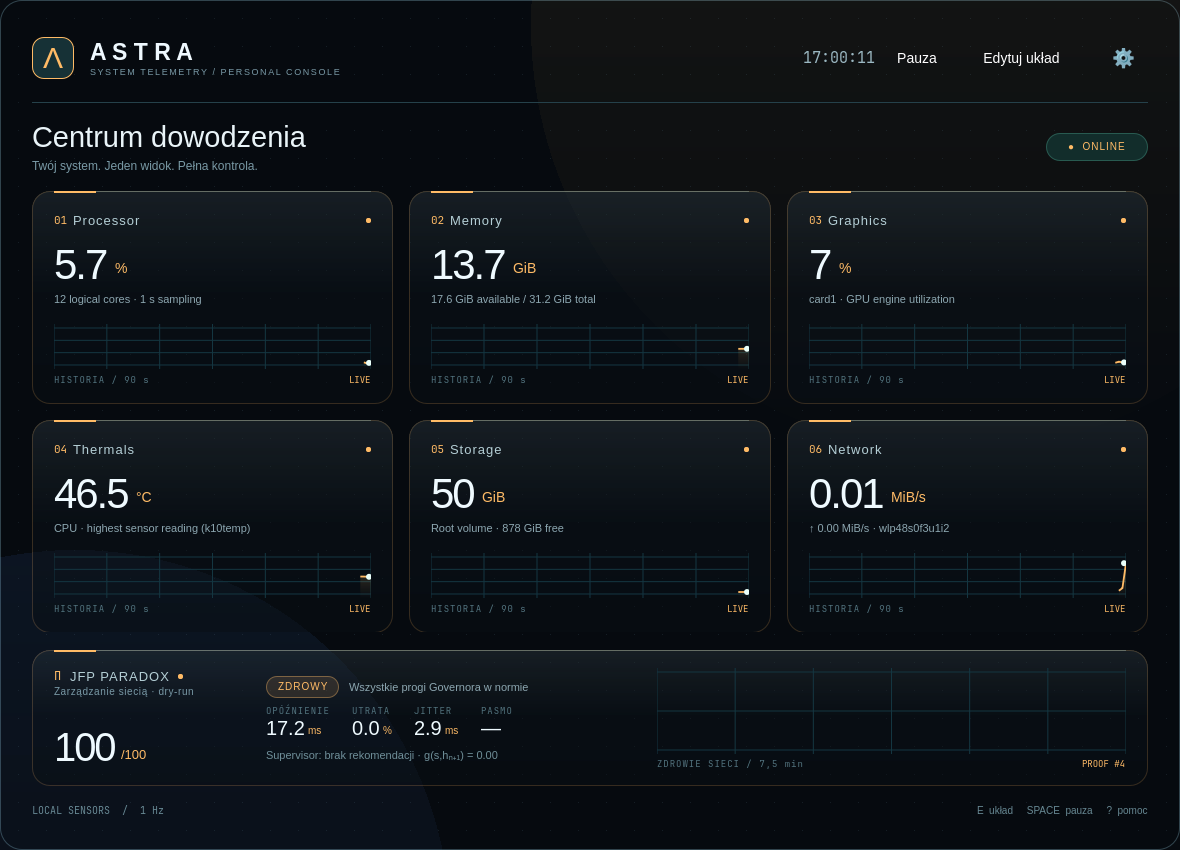
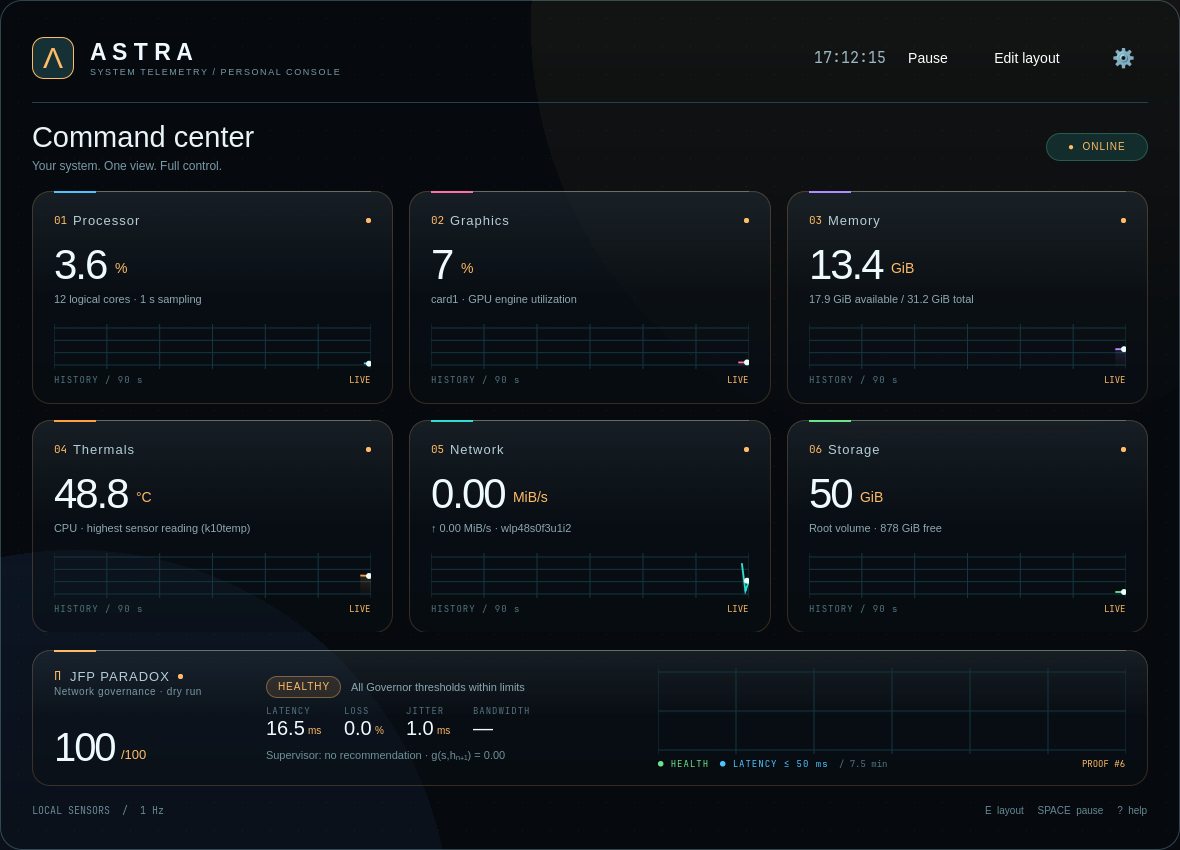
EN/PL language switch, per-metric graph colours, Paradox latency line

diff --git a/src/ParadoxPanel.qml b/src/ParadoxPanel.qml
@@ -8,6 +8,9 @@ Rectangle {
  property color accent: "#31f7a5"
  property real glass: .83
  readonly property bool ready: s.ready===true
+ readonly property color healthColor: "#6be38b"
+ readonly property color latencyColor: "#4fc3ff"
+ readonly property real latencyCeiling: {var l=s.latencyHistory||[];var m=0;for(var i=0;i<l.length;i++)m=Math.max(m,l[i]);return Math.max(50,Math.ceil(m*1.2/10)*10)}
  readonly property color stateColor: !ready?"#6b7683":s.state==="critical"?"#ff6b6b":s.state==="degraded"?"#ffbb66":accent
  radius: 18
  color: Qt.rgba(.035,.065,.085,glass)
@@ -27,7 +30,7 @@ Rectangle {
     Text {text:"JFP PARADOX";color:"#b4ced5";font.pixelSize:13;font.letterSpacing:1}
     Rectangle {width:5;height:5;radius:3;color:panel.stateColor}
    }
-   Text {text:qsTr("Zarządzanie siecią · dry-run");color:"#7898a5";font.pixelSize:10;font.letterSpacing:.6}
+   Text {text:qsTr("Network governance · dry run");color:"#7898a5";font.pixelSize:10;font.letterSpacing:.6}
    Item {Layout.fillHeight:true}
    RowLayout {spacing:6
     Text {text:panel.ready?panel.fmt(panel.s.score,0):"—";font.pixelSize:40;font.weight:Font.Light;font.letterSpacing:-2;color:"#effaff"}
@@ -39,17 +42,17 @@ Rectangle {
    RowLayout {spacing:10
     Rectangle {implicitWidth:stateText.implicitWidth+22;implicitHeight:22;radius:11;color:Qt.rgba(panel.stateColor.r,panel.stateColor.g,panel.stateColor.b,.12);border.color:Qt.rgba(panel.stateColor.r,panel.stateColor.g,panel.stateColor.b,.45)
      Text {id:stateText;anchors.centerIn:parent;color:panel.stateColor;font.pixelSize:10;font.letterSpacing:1
-      text:!panel.ready?qsTr("POMIAR…"):panel.s.state==="critical"?qsTr("KRYTYCZNY"):panel.s.state==="degraded"?qsTr("POGORSZONY"):qsTr("ZDROWY")}
+      text:!panel.ready?qsTr("MEASURING…"):panel.s.state==="critical"?qsTr("CRITICAL"):panel.s.state==="degraded"?qsTr("DEGRADED"):qsTr("HEALTHY")}
     }
     Text {Layout.fillWidth:true;elide:Text.ElideRight;color:"#8ca6b0";font.pixelSize:11;textFormat:Text.PlainText
-     text:!panel.ready?qsTr("Sonda → %1").arg(panel.s.target||""):(panel.s.breached&&panel.s.breached.length?qsTr("Progi: %1").arg(panel.s.breached.join(", ")):qsTr("Wszystkie progi Governora w normie"))}
+     text:!panel.ready?qsTr("Probe → %1").arg(panel.s.target||""):(panel.s.breached&&panel.s.breached.length?qsTr("Thresholds: %1").arg(panel.s.breached.join(", ")):qsTr("All Governor thresholds within limits"))}
    }
    GridLayout {columns:4;columnSpacing:22;rowSpacing:0;Layout.fillWidth:true
     Repeater {model:[
-      {k:qsTr("OPÓŹNIENIE"),v:panel.fmt(panel.s.latency,1),u:"ms"},
-      {k:qsTr("UTRATA"),v:panel.fmt(panel.s.loss,1),u:"%"},
+      {k:qsTr("LATENCY"),v:panel.fmt(panel.s.latency,1),u:"ms"},
+      {k:qsTr("LOSS"),v:panel.fmt(panel.s.loss,1),u:"%"},
       {k:qsTr("JITTER"),v:panel.fmt(panel.s.jitter,1),u:"ms"},
-      {k:qsTr("PASMO"),v:panel.s.linkKnown?panel.fmt(panel.s.bandwidth,0):"—",u:panel.s.linkKnown?"%":""}]
+      {k:qsTr("BANDWIDTH"),v:panel.s.linkKnown?panel.fmt(panel.s.bandwidth,0):"—",u:panel.s.linkKnown?"%":""}]
      ColumnLayout {required property var modelData;spacing:0
       Text {text:modelData.k;font.family:"monospace";font.pixelSize:9;font.letterSpacing:1;color:"#52737e"}
       RowLayout {spacing:3
@@ -61,31 +64,41 @@ Rectangle {
    }
    Text {Layout.fillWidth:true;elide:Text.ElideRight;font.pixelSize:11;textFormat:Text.PlainText
     color:panel.s.action?(panel.s.armed?"#ff9b8a":"#ffcf8a"):"#6f8f99"
-    text:!panel.ready?"":panel.s.action?qsTr("Supervisor %1 → %2 · %3 · nie wykonano (dry-run)").arg(panel.s.level).arg(panel.s.action).arg(panel.s.armed?qsTr("streak %1/3 — uzbrojone").arg(panel.s.streak):qsTr("streak %1/3").arg(panel.s.streak)):qsTr("Supervisor: brak rekomendacji · g(s,hₙ₊₁) = %1").arg(panel.fmt(panel.s.gradient,2))}
+    text:!panel.ready?"":panel.s.action?qsTr("Supervisor %1 → %2 · %3 · not executed (dry run)").arg(panel.s.level).arg(panel.s.action).arg(panel.s.armed?qsTr("streak %1/3 — armed").arg(panel.s.streak):qsTr("streak %1/3").arg(panel.s.streak)):qsTr("Supervisor: no recommendation · g(s,hₙ₊₁) = %1").arg(panel.fmt(panel.s.gradient,2))}
   }
   // health history
   ColumnLayout {spacing:4;Layout.preferredWidth:Math.min(340,panel.width*.3);Layout.fillHeight:true;visible:panel.width>760
    Canvas {
     id:graph;Layout.fillWidth:true;Layout.fillHeight:true
     property var samples:panel.s.history||[]
+    property var lat:panel.s.latencyHistory||[]
     onSamplesChanged:requestPaint();onWidthChanged:requestPaint();onHeightChanged:requestPaint()
     onPaint:{
      var c=getContext("2d");c.reset();c.strokeStyle="#143641";c.lineWidth=1;
      for(var j=0;j<3;j++){var y=4+j*(height-8)/2;c.beginPath();c.moveTo(0,y);c.lineTo(width,y);c.stroke();}
      for(var k=0;k<7;k++){var x=k*width/6;c.beginPath();c.moveTo(x,0);c.lineTo(x,height);c.stroke();}
-     if(samples.length<2)return;
-     var step=width/89,first=width-(samples.length-1)*step;
-     function yy(v){return height-4-Math.min(1,Math.max(0,v/100))*(height-8);}
-     c.beginPath();c.moveTo(first,height);for(var i=0;i<samples.length;i++)c.lineTo(first+i*step,yy(samples[i]));c.lineTo(width,height);c.closePath();
-     var g=c.createLinearGradient(0,0,0,height);g.addColorStop(0,Qt.rgba(panel.accent.r,panel.accent.g,panel.accent.b,.28));g.addColorStop(1,"#0031f7a5");c.fillStyle=g;c.fill();
-     c.beginPath();for(var n=0;n<samples.length;n++){var px=first+n*step,py=yy(samples[n]);if(n===0)c.moveTo(px,py);else c.lineTo(px,py);}c.strokeStyle=panel.accent;c.lineWidth=1.8;c.stroke();
+     var w=width,h=height;
+     function draw(data,ceiling,col,fill){
+      if(data.length<2)return;
+      var step=w/89,first=w-(data.length-1)*step;
+      function yy(v){return h-4-Math.min(1,Math.max(0,v/ceiling))*(h-8);}
+      if(fill){c.beginPath();c.moveTo(first,h);for(var i=0;i<data.length;i++)c.lineTo(first+i*step,yy(data[i]));c.lineTo(w,h);c.closePath();
+       var g=c.createLinearGradient(0,0,0,h);g.addColorStop(0,Qt.rgba(col.r,col.g,col.b,.25));g.addColorStop(1,Qt.rgba(col.r,col.g,col.b,0));c.fillStyle=g;c.fill();}
+      c.beginPath();for(var n=0;n<data.length;n++){var px=first+n*step,py=yy(data[n]);if(n===0)c.moveTo(px,py);else c.lineTo(px,py);}
+      c.strokeStyle=col;c.lineWidth=1.8;c.stroke();
+      c.beginPath();c.arc(w-2,yy(data[data.length-1]),3,0,Math.PI*2);c.fillStyle=col;c.fill();
+     }
+     draw(lat,panel.latencyCeiling,panel.latencyColor,false);
+     draw(samples,100,panel.healthColor,true);
     }
    }
-   RowLayout {Layout.fillWidth:true
-    Text {text:qsTr("ZDROWIE SIECI / 7,5 min");font.family:"monospace";font.pixelSize:9;font.letterSpacing:1;color:"#52737e"}
+   RowLayout {Layout.fillWidth:true;spacing:10
+    Text {text:"● "+qsTr("HEALTH");font.family:"monospace";font.pixelSize:9;font.letterSpacing:1;color:panel.healthColor}
+    Text {text:"● "+qsTr("LATENCY")+" ≤ "+Math.round(panel.latencyCeiling)+" ms";font.family:"monospace";font.pixelSize:9;font.letterSpacing:1;color:panel.latencyColor}
+    Text {text:"/ 7.5 min";font.family:"monospace";font.pixelSize:9;color:"#52737e"}
     Item {Layout.fillWidth:true}
     Text {text:qsTr("PROOF #%1").arg(panel.s.entries||0);font.family:"monospace";font.pixelSize:9;color:panel.accent
-     ToolTip.text:qsTr("Łańcuch SHA-256: %1").arg(panel.s.proof||"");ToolTip.visible:proofHover.hovered;HoverHandler{id:proofHover}}
+     ToolTip.text:qsTr("SHA-256 chain: %1").arg(panel.s.proof||"");ToolTip.visible:proofHover.hovered;HoverHandler{id:proofHover}}
    }
   }
  }

diff --git a/src/Main.qml b/src/Main.qml
@@ -35,19 +35,19 @@ ApplicationWindow {
     }
     Item {Layout.fillWidth:true}
     Text {text:win.clockText;color:"#9bb8c2";font.family:"monospace";font.pixelSize:15;visible:win.width>850}
-    ToolButton {text:backend.paused?qsTr("Wznów"):qsTr("Pauza");onClicked:backend.paused=!backend.paused}
-    Button {text:win.editing?qsTr("Gotowe"):qsTr("Edytuj układ");highlighted:win.editing;onClicked:win.editing=!win.editing}
-    ToolButton {text:"⚙";font.pixelSize:22;onClicked:settingsDrawer.open();ToolTip.text:qsTr("Wygląd i kafelki");ToolTip.visible:hovered}
+    ToolButton {text:backend.paused?qsTr("Resume"):qsTr("Pause");onClicked:backend.paused=!backend.paused}
+    Button {text:win.editing?qsTr("Done"):qsTr("Edit layout");highlighted:win.editing;onClicked:win.editing=!win.editing}
+    ToolButton {text:"⚙";font.pixelSize:22;onClicked:settingsDrawer.open();ToolTip.text:qsTr("Appearance and tiles");ToolTip.visible:hovered}
    }
    Rectangle {Layout.fillWidth:true;height:1;color:"#25414a"}
    RowLayout {Layout.fillWidth:true
     ColumnLayout {spacing:5
-     Text {text:qsTr("Centrum dowodzenia");color:"#e9f4f8";font.pixelSize:29;font.weight:Font.Light}
-     Text {text:win.editing?qsTr("Strzałki zmieniają kolejność · × usuwa kafelek · ustawienia dodają kafelki"):qsTr("Twój system. Jeden widok. Pełna kontrola.");color:"#7999a5";font.pixelSize:12;wrapMode:Text.WordWrap;Layout.maximumWidth:win.width-150}
+     Text {text:qsTr("Command center");color:"#e9f4f8";font.pixelSize:29;font.weight:Font.Light}
+     Text {text:win.editing?qsTr("Arrows reorder · × removes a tile · settings add tiles"):qsTr("Your system. One view. Full control.");color:"#7999a5";font.pixelSize:12;wrapMode:Text.WordWrap;Layout.maximumWidth:win.width-150}
     }
     Item {Layout.fillWidth:true}
     Rectangle {implicitWidth:102;implicitHeight:28;radius:14;color:"#122d2b";border.color:"#285a50";visible:win.width>950
-     Text {anchors.centerIn:parent;text:backend.paused?qsTr("●  PAUZA"):qsTr("●  ONLINE");color:win.accent;font.pixelSize:10;font.letterSpacing:1}
+     Text {anchors.centerIn:parent;text:backend.paused?qsTr("●  PAUSED"):qsTr("●  ONLINE");color:win.accent;font.pixelSize:10;font.letterSpacing:1}
     }
    }
    ScrollView {id:scroll;Layout.fillWidth:true;Layout.fillHeight:true;clip:true;contentWidth:availableWidth
@@ -63,14 +63,14 @@ ApplicationWindow {
        onMoveRequested:function(direction){backend.move(modelData,direction)}
       }
      }
-     Text {visible:backend.order.length===0;text:qsTr("Dodaj kafelki w ustawieniach ⚙");color:"#aec7d1";font.pixelSize:20;Layout.topMargin:40}
+     Text {visible:backend.order.length===0;text:qsTr("Add tiles in settings ⚙");color:"#aec7d1";font.pixelSize:20;Layout.topMargin:40}
     }
    }
    ParadoxPanel {Layout.fillWidth:true;Layout.preferredHeight:136;s:paradox.state;accent:win.accent;glass:backend.glass}
    RowLayout {Layout.fillWidth:true
     Text {text:qsTr("LOCAL SENSORS  /  1 Hz");color:"#678893";font.family:"monospace";font.pixelSize:10}
     Item {Layout.fillWidth:true}
-    Text {text:qsTr("E  układ     SPACE  pauza     ?  pomoc");color:"#678893";font.pixelSize:10}
+    Text {text:qsTr("E  layout     SPACE  pause     ?  help");color:"#678893";font.pixelSize:10}
    }
   }
  }
@@ -78,22 +78,27 @@ ApplicationWindow {
   id:settingsDrawer;edge:Qt.RightEdge;width:330;height:win.height
   background:Rectangle {color:"#101c24";border.color:"#36515c"}
   ColumnLayout {anchors.fill:parent;anchors.margins:24;spacing:14
-   Text {text:qsTr("Twoja konsola");color:"#e6f7ff";font.pixelSize:24}
-   Text {text:qsTr("Widoczne kafelki");color:win.accent;font.pixelSize:13}
-   Repeater {model:[{key:"cpu",name:qsTr("Procesor")},{key:"memory",name:qsTr("Pamięć RAM")},{key:"gpu",name:qsTr("Grafika")},{key:"thermal",name:qsTr("Temperatura CPU")},{key:"disk",name:qsTr("Dysk systemowy")},{key:"network",name:qsTr("Sieć")}]
+   Text {text:qsTr("Your console");color:"#e6f7ff";font.pixelSize:24}
+   Text {text:qsTr("Visible tiles");color:win.accent;font.pixelSize:13}
+   Repeater {model:[{key:"cpu",name:qsTr("Processor")},{key:"memory",name:qsTr("Memory")},{key:"gpu",name:qsTr("Graphics")},{key:"thermal",name:qsTr("CPU temperature")},{key:"disk",name:qsTr("System disk")},{key:"network",name:qsTr("Network")}]
     CheckBox {required property var modelData;text:modelData.name;checked:backend.order.indexOf(modelData.key)>=0;onClicked:backend.toggle(modelData.key);Layout.preferredHeight:32}
    }
-   Text {text:qsTr("Kolor światła");color:win.accent;font.pixelSize:13}
-   ComboBox {Layout.fillWidth:true;model:["Omarchy","Ice blue","Amber"];currentIndex:["omarchy","ice","amber"].indexOf(backend.palette);onActivated:backend.palette=["omarchy","ice","amber"][currentIndex]}
-   Text {text:qsTr("Gęstość szkła");color:win.accent;font.pixelSize:13}
+   Text {text:qsTr("Language");color:win.accent;font.pixelSize:13}
+   ComboBox {id:langBox;Layout.fillWidth:true;readonly property var codes:["auto","en","pl"]
+    model:[qsTr("Automatic (Omarchy)"),"English","Polski"]
+    currentIndex:Math.max(0,codes.indexOf(i18n.choice))
+    onActivated:i18n.choice=codes[currentIndex]}
+   Text {text:qsTr("Light colour");color:win.accent;font.pixelSize:13}
+   ComboBox {Layout.fillWidth:true;model:["Omarchy",qsTr("Ice blue"),qsTr("Amber")];currentIndex:["omarchy","ice","amber"].indexOf(backend.palette);onActivated:backend.palette=["omarchy","ice","amber"][currentIndex]}
+   Text {text:qsTr("Glass density");color:win.accent;font.pixelSize:13}
    Slider {Layout.fillWidth:true;from:.45;to:.98;value:backend.glass;onMoved:backend.glass=value}
-   Text {text:qsTr("Przezroczystość jest rzeczywista. Rozmycie tła zależy od ustawień Hyprlanda.");color:"#8eaab5";font.pixelSize:12;wrapMode:Text.WordWrap;Layout.fillWidth:true}
-   Button {text:qsTr("Przywróć domyślny układ");onClicked:backend.reset()}
+   Text {text:qsTr("Transparency is real. Background blur depends on your Hyprland settings.");color:"#8eaab5";font.pixelSize:12;wrapMode:Text.WordWrap;Layout.fillWidth:true}
+   Button {text:qsTr("Restore default layout");onClicked:backend.reset()}
    Item {Layout.fillHeight:true}
-   Button {text:qsTr("Zamknij ustawienia");onClicked:settingsDrawer.close()}
+   Button {text:qsTr("Close settings");onClicked:settingsDrawer.close()}
   }
  }
  Popup {id:help;anchors.centerIn:parent;width:380;modal:true;padding:24
-  ColumnLayout {spacing:12;Text {text:qsTr("Sterowanie ASTRA");color:"white";font.pixelSize:22} Text {text:qsTr("E — edytuj kolejność i usuń kafelki\nSpace — wstrzymaj odczyty\nQ — zamknij\n⚙ — dodaj kafelki, zmień kolor i szkło\n\nUkład i wygląd zapisują się automatycznie.");color:"#b9d0d9";font.pixelSize:13} Button {text:qsTr("Rozumiem");onClicked:help.close()}}
+  ColumnLayout {spacing:12;Text {text:qsTr("ASTRA controls");color:"white";font.pixelSize:22} Text {text:qsTr("E — reorder and remove tiles\nSpace — pause readings\nQ — quit\n⚙ — add tiles, change colour, glass and language\n\nLayout and appearance are saved automatically.");color:"#b9d0d9";font.pixelSize:13} Button {text:qsTr("Got it");onClicked:help.close()}}
  }
 }

diff --git a/src/TelemetryTile.qml b/src/TelemetryTile.qml
@@ -8,6 +8,8 @@ Rectangle {
  property bool editing: false
  property real glass: .83
  property int serial: 0
+ readonly property var seriesColors:({cpu:"#4fc3ff",memory:"#b18cff",gpu:"#ff6fae",thermal:"#ff9f43",disk:"#6be38b",network:"#2fe0d0"})
+ readonly property color series:seriesColors[metric.id]||accent
  signal removeRequested()
  signal moveRequested(int direction)
  radius: 18
@@ -17,7 +19,7 @@ Rectangle {
  clip: true
  Rectangle {anchors.fill: parent;radius: parent.radius;gradient: Gradient {GradientStop {position:0;color:"#15bce4ed"} GradientStop {position:.48;color:"#027cabb5"} GradientStop {position:1;color:"#0a000000"}}}
  Rectangle {x:22;y:0;width:parent.width-44;height:1;color:Qt.rgba(.8,1,1,.25)}
- Rectangle {x:22;y:0;width:42;height:2;color:tile.accent}
+ Rectangle {x:22;y:0;width:42;height:2;color:tile.series}
  ColumnLayout {
   anchors.fill: parent;anchors.margins:tile.height<210?16:22;spacing:tile.height<210?3:5
   RowLayout {
@@ -25,9 +27,9 @@ Rectangle {
    Text {text: ("0"+(tile.serial+1)).slice(-2);color:tile.accent;font.family:"monospace";font.pixelSize:11}
    Text {text:tile.metric.label||"";color:"#b4ced5";font.pixelSize:13;font.letterSpacing:1;Layout.fillWidth:true;textFormat:Text.PlainText}
    Rectangle {width:5;height:5;radius:3;color:tile.metric.available?tile.accent:"#6b7683";visible:!tile.editing}
-   ToolButton {text:"‹";visible:tile.editing;implicitWidth:28;implicitHeight:28;onClicked:tile.moveRequested(-1);ToolTip.text:qsTr("Przesuń wcześniej");ToolTip.visible:hovered}
-   ToolButton {text:"›";visible:tile.editing;implicitWidth:28;implicitHeight:28;onClicked:tile.moveRequested(1);ToolTip.text:qsTr("Przesuń dalej");ToolTip.visible:hovered}
-   ToolButton {text:"×";visible:tile.editing;implicitWidth:28;implicitHeight:28;onClicked:tile.removeRequested();ToolTip.text:qsTr("Usuń kafelek");ToolTip.visible:hovered}
+   ToolButton {text:"‹";visible:tile.editing;implicitWidth:28;implicitHeight:28;onClicked:tile.moveRequested(-1);ToolTip.text:qsTr("Move earlier");ToolTip.visible:hovered}
+   ToolButton {text:"›";visible:tile.editing;implicitWidth:28;implicitHeight:28;onClicked:tile.moveRequested(1);ToolTip.text:qsTr("Move later");ToolTip.visible:hovered}
+   ToolButton {text:"×";visible:tile.editing;implicitWidth:28;implicitHeight:28;onClicked:tile.removeRequested();ToolTip.text:qsTr("Remove tile");ToolTip.visible:hovered}
   }
   RowLayout {spacing:8;Layout.topMargin:tile.height<210?0:8
    Text {text:tile.metric.value||"—";font.pixelSize:tile.height<210?34:tile.height<250?42:50;font.weight:Font.Light;font.letterSpacing:-2;color:"#effaff"}
@@ -40,6 +42,7 @@ Rectangle {
    id: graph;Layout.fillWidth:true;Layout.preferredHeight:tile.height<210?32:tile.height<250?45:67
    property var samples:tile.metric.history||[]
    onSamplesChanged:requestPaint()
+   Connections {target:tile;function onSeriesChanged(){graph.requestPaint()}}
    onWidthChanged:requestPaint()
    onPaint:{
     var c=getContext("2d");c.reset();c.strokeStyle="#143641";c.lineWidth=1;
@@ -50,15 +53,15 @@ Rectangle {
     var step=width/89,first=width-(samples.length-1)*step;
     function yy(v){return height-4-Math.min(1,Math.max(0,v/ceiling))*(height-8);}
     c.beginPath();c.moveTo(first,height);for(var i=0;i<samples.length;i++)c.lineTo(first+i*step,yy(samples[i]));c.lineTo(width,height);c.closePath();
-    var g=c.createLinearGradient(0,0,0,height);g.addColorStop(0,Qt.rgba(tile.accent.r,tile.accent.g,tile.accent.b,.28));g.addColorStop(1,"#0031f7a5");c.fillStyle=g;c.fill();
-    c.beginPath();for(var n=0;n<samples.length;n++){var px=first+n*step,py=yy(samples[n]);if(n===0)c.moveTo(px,py);else c.lineTo(px,py);}c.strokeStyle=tile.accent;c.lineWidth=1.8;c.stroke();
+    var g=c.createLinearGradient(0,0,0,height);g.addColorStop(0,Qt.rgba(tile.series.r,tile.series.g,tile.series.b,.28));g.addColorStop(1,Qt.rgba(tile.series.r,tile.series.g,tile.series.b,0));c.fillStyle=g;c.fill();
+    c.beginPath();for(var n=0;n<samples.length;n++){var px=first+n*step,py=yy(samples[n]);if(n===0)c.moveTo(px,py);else c.lineTo(px,py);}c.strokeStyle=tile.series;c.lineWidth=1.8;c.stroke();
     c.beginPath();c.arc(width-2,yy(samples[samples.length-1]),3,0,Math.PI*2);c.fillStyle="#eafffa";c.fill();
    }
   }
   RowLayout {Layout.fillWidth:true
-   Text {text:qsTr("HISTORIA / 90 s");font.family:"monospace";font.pixelSize:9;font.letterSpacing:1;color:"#52737e"}
+   Text {text:qsTr("HISTORY / 90 s");font.family:"monospace";font.pixelSize:9;font.letterSpacing:1;color:"#52737e"}
    Item {Layout.fillWidth:true}
-   Text {text:tile.metric.available?qsTr("LIVE"):qsTr("BRAK DANYCH");font.family:"monospace";font.pixelSize:9;color:tile.metric.available?tile.accent:"#87969b"}
+   Text {text:tile.metric.available?qsTr("LIVE"):qsTr("NO DATA");font.family:"monospace";font.pixelSize:9;color:tile.metric.available?tile.accent:"#87969b"}
   }
  }
 }

diff --git a/tests/tests.cpp b/tests/tests.cpp
@@ -6,6 +6,7 @@
 #include <QQuickStyle>
 #include "backend.h"
 #include "paradox.h"
+#include "translator.h"
 #include <QCryptographicHash>
 #include <QJsonDocument>
 #include <QJsonObject>
@@ -33,7 +34,12 @@ private slots:
   for(auto line:in.readAll().split('\n')){if(line.trimmed().isEmpty())continue;auto o=QJsonDocument::fromJson(line).object();QCOMPARE(o["prev_hash"].toString(),prev);QString rec=o["entry_hash"].toString();o.remove("entry_hash");
    QCryptographicHash h(QCryptographicHash::Sha256);h.addData(prev.toUtf8());h.addData(QJsonDocument(o).toJson(QJsonDocument::Compact));QCOMPARE(QString::fromLatin1(h.result().toHex()),rec);QCOMPARE(o["counter"].toInt(),count);prev=rec;count++;}
   QCOMPARE(count,5);}
- void realWindow(){QQuickStyle::setStyle("Material");Backend b;b.reset();QTemporaryDir pd;Paradox px(nullptr,pd.path()+"/p.jsonl",false);QQmlApplicationEngine e;e.rootContext()->setContextProperty("backend",&b);e.rootContext()->setContextProperty("paradox",&px);e.load(QUrl("qrc:/Main.qml"));QVERIFY(!e.rootObjects().isEmpty());auto w=qobject_cast<QQuickWindow*>(e.rootObjects().first());QVERIFY(w);QTest::qWait(200);QTest::keyClick(w,Qt::Key_E);QCOMPARE(w->property("editing").toBool(),true);QTest::keyClick(w,Qt::Key_Space);QVERIFY(b.paused());w->resize(720,600);QTest::qWait(150);QVERIFY(!w->grabWindow().isNull());}
+ void languageSwitch(){QTemporaryDir d;Translator t(d.path()+"/lang");QCoreApplication::installTranslator(&t);
+  t.setChoice("pl");QCOMPARE(t.language(),QString("pl"));QCOMPARE(QCoreApplication::translate("x","Edit layout"),QString("Edytuj układ"));QCOMPARE(QCoreApplication::translate("x","Processor"),QString("Procesor"));
+  t.setChoice("en");QCOMPARE(t.language(),QString("en"));QCOMPARE(QCoreApplication::translate("x","Edit layout"),QString("Edit layout"));
+  t.setChoice("auto");QCOMPARE(t.choice(),QString("auto"));QCOMPARE(t.language(),QString("en"));t.setChoice("bogus!");QCOMPARE(t.choice(),QString("auto"));
+  QCoreApplication::removeTranslator(&t);}
+ void realWindow(){QQuickStyle::setStyle("Material");Backend b;b.reset();QTemporaryDir pd;Paradox px(nullptr,pd.path()+"/p.jsonl",false);Translator tr(pd.path()+"/none");QQmlApplicationEngine e;e.rootContext()->setContextProperty("backend",&b);e.rootContext()->setContextProperty("paradox",&px);e.rootContext()->setContextProperty("i18n",&tr);e.load(QUrl("qrc:/Main.qml"));QVERIFY(!e.rootObjects().isEmpty());auto w=qobject_cast<QQuickWindow*>(e.rootObjects().first());QVERIFY(w);QTest::qWait(200);QTest::keyClick(w,Qt::Key_E);QCOMPARE(w->property("editing").toBool(),true);QTest::keyClick(w,Qt::Key_Space);QVERIFY(b.paused());w->resize(720,600);QTest::qWait(150);QVERIFY(!w->grabWindow().isNull());}
 };
 QTEST_MAIN(Tests)
 #include "tests.moc"

diff --git a/src/main.cpp b/src/main.cpp
@@ -5,6 +5,7 @@
 #include <QQuickWindow>
 #include <QTimer>
 #include <QJsonDocument>
+#include <QSettings>
 #include <cstdio>
 #include "backend.h"
 #include "translator.h"
@@ -13,9 +14,10 @@ int main(int argc,char **argv){
  bool capture=false,probe=false;for(int i=1;i<argc;i++){capture|=QString(argv[i])=="--screenshot";probe|=QString(argv[i])=="--probe";}
  if(capture||probe)qputenv("QT_QPA_PLATFORM","offscreen");
  QGuiApplication app(argc,argv);app.setApplicationName("astramon");app.setOrganizationName("astramon");app.setDesktopFileName("astramon");
- QQuickStyle::setStyle("Material");Translator translator;app.installTranslator(&translator);Backend backend;
+ QQuickStyle::setStyle("Material");Translator translator;{QSettings st("astramon","astramon");translator.setChoice(st.value("language","auto").toString());}
+ QObject::connect(&translator,&Translator::changed,&translator,[&]{QSettings st("astramon","astramon");st.setValue("language",translator.choice());});app.installTranslator(&translator);Backend backend;
  if(probe){QTimer::singleShot(1100,&app,[&]{backend.sample();puts(QJsonDocument::fromVariant(backend.cards()).toJson().constData());app.quit();});return app.exec();}
- QQmlApplicationEngine engine;QObject::connect(&translator,&Translator::changed,&engine,&QQmlEngine::retranslate);Paradox paradox;QObject::connect(&backend,&Backend::changed,&paradox,[&]{if(paradox.paused()!=backend.paused())paradox.setPaused(backend.paused());});engine.rootContext()->setContextProperty("backend",&backend);engine.rootContext()->setContextProperty("paradox",&paradox);engine.load(QUrl("qrc:/Main.qml"));if(engine.rootObjects().isEmpty())return 1;
+ QQmlApplicationEngine engine;QObject::connect(&translator,&Translator::changed,&engine,&QQmlEngine::retranslate);Paradox paradox;QObject::connect(&backend,&Backend::changed,&paradox,[&]{if(paradox.paused()!=backend.paused())paradox.setPaused(backend.paused());});engine.rootContext()->setContextProperty("backend",&backend);engine.rootContext()->setContextProperty("paradox",&paradox);engine.rootContext()->setContextProperty("i18n",&translator);engine.load(QUrl("qrc:/Main.qml"));if(engine.rootObjects().isEmpty())return 1;
  if(capture)QTimer::singleShot(3500,&app,[&]{auto w=qobject_cast<QQuickWindow*>(engine.rootObjects().first());bool ok=w->grabWindow().save(app.arguments().value(app.arguments().indexOf("--screenshot")+1,"/tmp/astramon.png"));app.exit(ok?0:2);});
  return app.exec();
 }

diff --git a/src/paradox.cpp b/src/paradox.cpp
@@ -87,6 +87,7 @@ void Paradox::ingest(const NetMetrics &m){
  streak=v.critical?streak+1:0;
  QString st=v.critical?"critical":v.breached.isEmpty()?"healthy":"degraded";
  health.append(v.score);while(health.size()>90)health.removeFirst();
+ latencies.append(m.ping?m.latency:0.0);while(latencies.size()>90)latencies.removeFirst();
  bool armed=streak>=3; // streak guard: action only after 3 consecutive critical states
  QString action=r.valid?r.name:QString();
  if(st!=lastState||(!action.isEmpty()&&streak==3)){
@@ -98,7 +99,7 @@ void Paradox::ingest(const NetMetrics &m){
  snapshot["latency"]=m.latency;snapshot["loss"]=m.loss;snapshot["jitter"]=m.jitter;snapshot["bandwidth"]=m.bandwidth;
  snapshot["sensors"]=QVariantMap{{"ping",m.ping},{"tcp",m.tcp},{"interfaces",m.interfaces},{"routes",m.routes}};
  snapshot["gradient"]=g;snapshot["streak"]=streak;snapshot["armed"]=armed&&r.valid;snapshot["level"]=r.valid?r.level:"L0";snapshot["action"]=action;snapshot["actionReason"]=r.reason;
- snapshot["entries"]=counter;snapshot["history"]=health;snapshot["target"]=target;
+ snapshot["entries"]=counter;snapshot["history"]=health;snapshot["latencyHistory"]=latencies;snapshot["target"]=target;
  emit changed();
 }
 // SHA-256 hash chain, byte-compatible with `jfp-paradox verify-chain` (sorted keys, compact JSON, zero seed).

diff --git a/src/translator.h b/src/translator.h
@@ -16,12 +16,16 @@
 class Translator : public QTranslator {
     Q_OBJECT
     Q_PROPERTY(QString language READ language NOTIFY changed)
+    Q_PROPERTY(QString choice READ choice WRITE setChoice NOTIFY changed)
 
 public:
     explicit Translator(const QString &languageFile = {}, const QString &catalogDirectory = ":/i18n",
                         QObject *parent = nullptr);
 
     QString language() const { return m_language; }
+    // "auto" follows Omarchy; any language code (en, pl) pins it. Persisted by the caller.
+    QString choice() const { return m_choice; }
+    void setChoice(const QString &choice);
     bool isEmpty() const override { return m_strings.isEmpty(); }
     QString translate(const char *context, const char *sourceText, const char *disambiguation = nullptr,
                       int n = -1) const override;
@@ -39,6 +43,7 @@ private:
     QString m_languageFile;
     QString m_catalogDirectory;
     QString m_language;
+    QString m_choice = "auto";
     QHash<QString, QJsonValue> m_strings;
     QFileSystemWatcher m_watcher;
     QTimer m_debounce;

diff --git a/src/translator.cpp b/src/translator.cpp
@@ -106,7 +106,7 @@ void Translator::reload() {
         m_watcher.addPath(m_languageFile);
 
     // Catalogs are compiled in, so only a different language needs a reload.
-    const QString language = readLanguage(m_languageFile);
+    const QString language = m_choice == "auto" ? readLanguage(m_languageFile) : m_choice;
     if (language == m_language)
         return;
 
@@ -134,4 +134,16 @@ void Translator::reload() {
     QLocale::setDefault(locale);
     QGuiApplication::setLayoutDirection(locale.textDirection());
     emit changed();
+}
+
+void Translator::setChoice(const QString &choice) {
+    static const QRegularExpression valid("^[a-z]{2,3}(-[A-Za-z]{2})?$");
+    const QString next = valid.match(choice).hasMatch() ? choice : QStringLiteral("auto");
+    if (next == m_choice)
+        return;
+    m_choice = next;
+    const QString before = m_language;
+    reload();
+    if (m_language == before)
+        emit changed();
 }

diff --git a/src/paradox.h b/src/paradox.h
@@ -46,6 +46,6 @@ private:
  double pAvg=0,pMdev=0,pLoss=100;
  quint64 lastBytes=0;QElapsedTimer bwClock;
  bool hasPrev=false;NetMetrics prev;QString lastState;
- QVariantList health;
+ QVariantList health,latencies;
  QVariantMap snapshot;
 };

diff --git a/README.md b/README.md
@@ -13,12 +13,16 @@ On this computer the app is installed per-user at `~/.local/bin/astramon`, with 
 
 The bottom strip embeds [JFP Paradox](https://github.com/jarohull-ai/jfp-paradox) network governance. The Governor constitution and Supervisor rules are ported 1:1 from `jfp-paradox` rust-core v0.2.0 (`src/paradox.cpp`).
 
-- Shows network health score (0–100), state (healthy / degraded / critical), latency, packet loss, jitter, link utilisation (when the driver reports link speed), breached thresholds, the Supervisor recommendation (L2/L3) with the 3-sample streak guard, and a 7.5-minute health history.
+- Shows network health score (0–100), state (healthy / degraded / critical), latency, packet loss, jitter, link utilisation (when the driver reports link speed), breached thresholds, the Supervisor recommendation (L2/L3) with the 3-sample streak guard, and a 7.5-minute history with two lines: health score (green, 0–100) and latency (blue, auto-scaled; the legend shows the current ceiling).
 - **Dry run only:** recommended actions are displayed and logged, never executed.
 - **Network probes:** every 5 s, 5 ICMP pings and one TCP connect to `8.8.8.8:443`. Change the target in `~/.config/astramon/astramon.conf` with `paradox/target=` and `paradox/tcpPort=` (e.g. your router). Pause (Space) also pauses the probes.
 - **Proof chain:** state changes and recommendations go to a SHA-256 hash chain in `~/.local/state/astramon/paradox_proof.jsonl`, compatible with `jfp-paradox verify-chain`.
 
-Use Settings to add/remove tiles and adjust opacity/colour. Edit layout exposes move-left, move-right and remove buttons. Settings persist in `~/.config/astramon/astramon.conf`.
+## Language
+
+The UI is available in English and Polish. Pick **Settings ⚙ → Language**: *Automatic (Omarchy)* follows Omarchy's Setup › Language, or pin *English* / *Polski*. The choice is stored as `language=` in `~/.config/astramon/astramon.conf` and applies instantly. Translations live in `src/i18n/<code>.json` (English source text → translation); adding a language is one JSON file.
+
+Use Settings to add/remove tiles and adjust opacity/colour/language. Each tile graph has its own colour (CPU blue, GPU pink, RAM violet, temperature orange, network teal, disk green). Edit layout exposes move-left, move-right and remove buttons. Settings persist in `~/.config/astramon/astramon.conf`.
 
 | Key | Action |
 | --- | --- |
